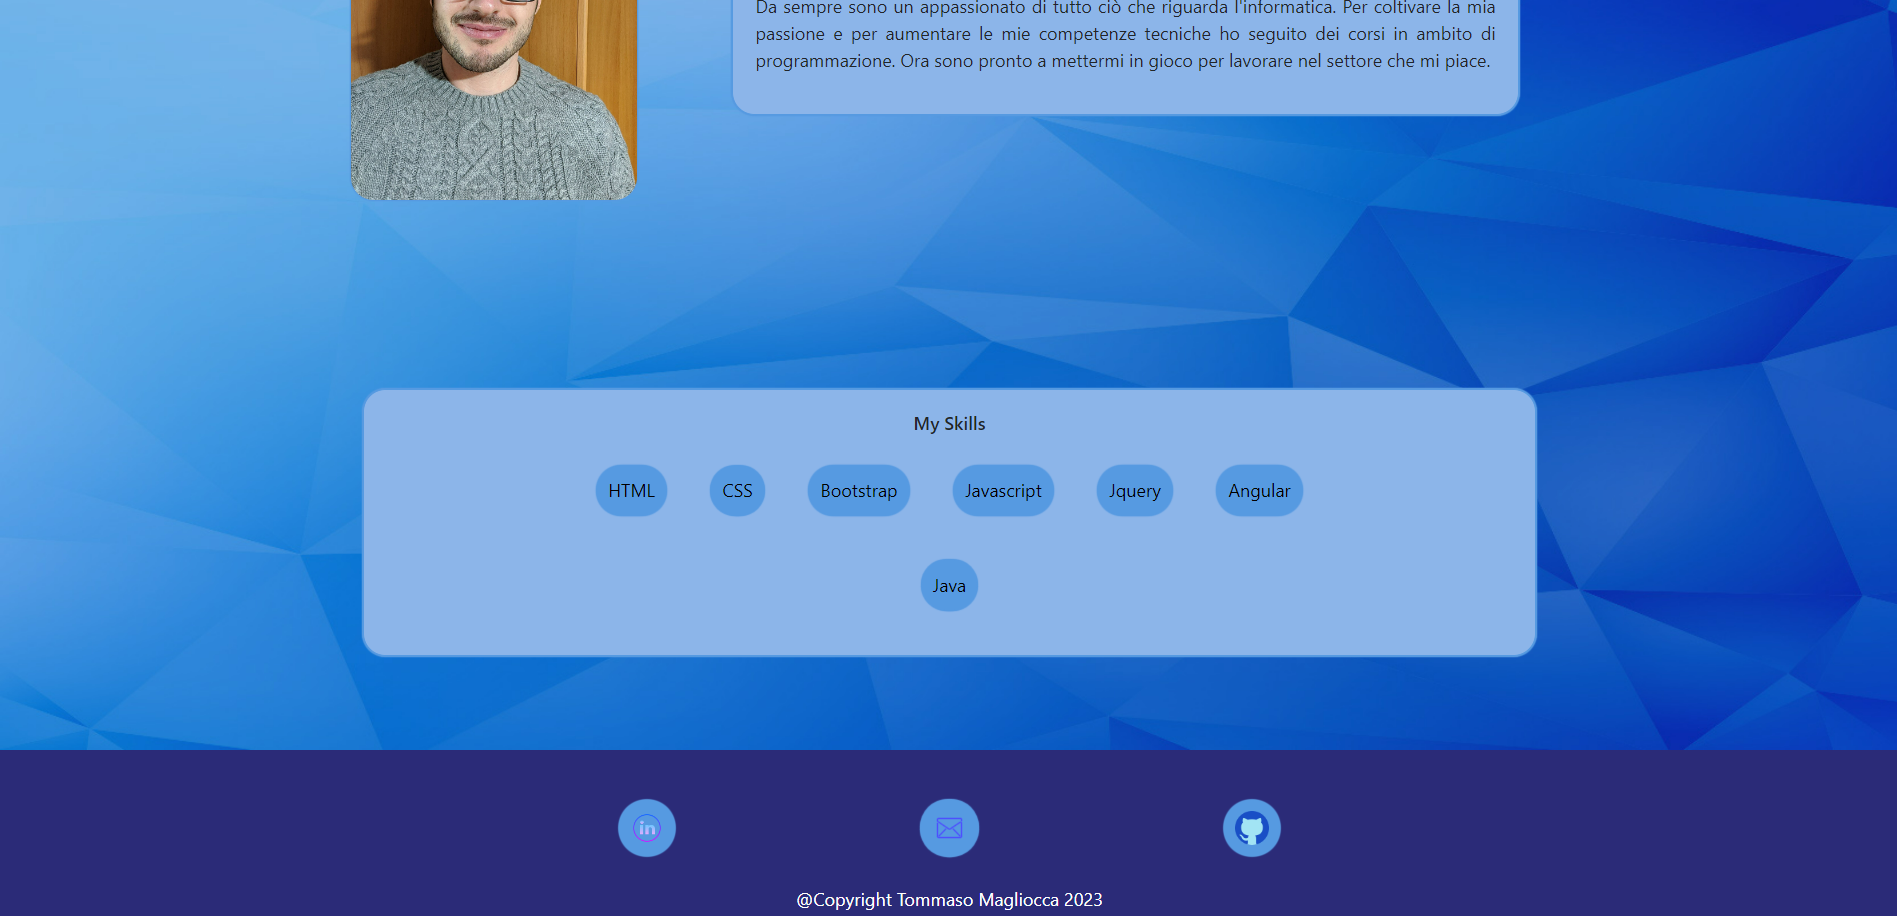
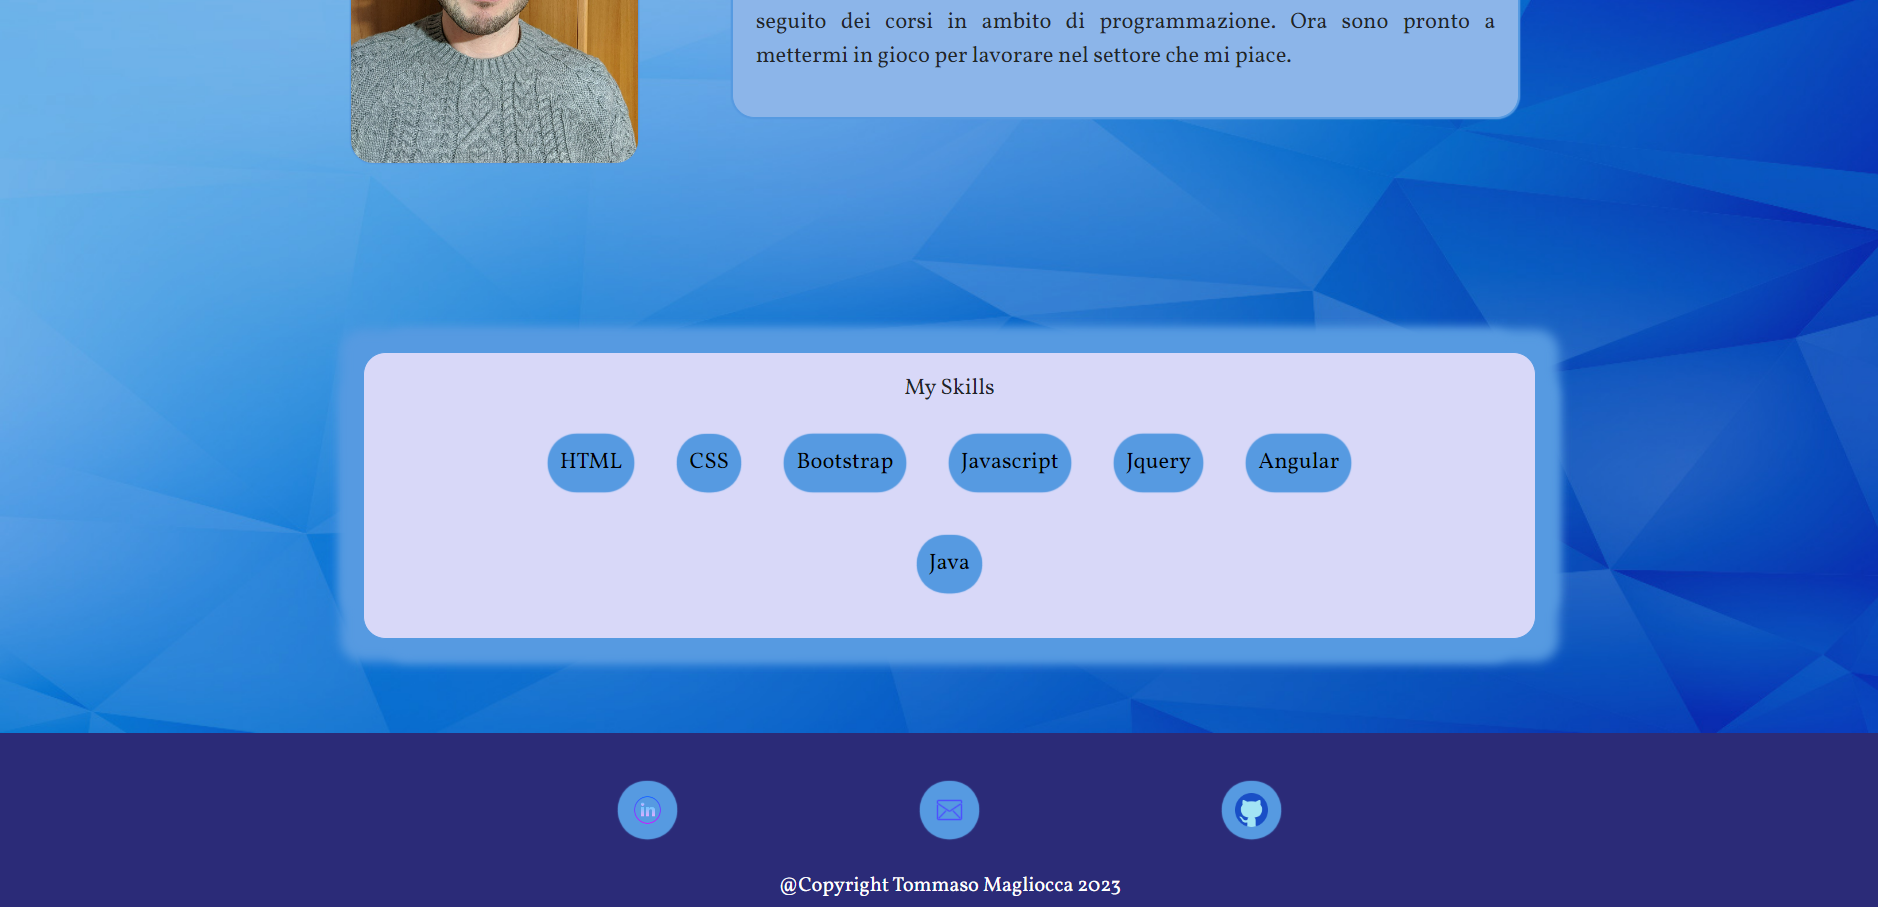
Aggiornamento font
Cambiato il font generale e aggiornato le foto del carosello pagina progetti.

diff --git a/src/app/pages/progetti/progetti.component.html b/src/app/pages/progetti/progetti.component.html
@@ -2,13 +2,13 @@
 <div class="row" id="container">
   <div class="col-1 col-xs-1 col-md-1"></div>
   <div class="col-10 col-xs-10 col-md-10" id="oggetto">
-    <h3>Progetti effettuati da Junior Developer</h3>
+    <h2>Progetti effettuati da Junior Developer</h2>
     <hr/>
-      <p>Web-App piattaforma Shop-Online <br>
-        …Work-In-Progress…<br></p>
+      <h6>Web-App piattaforma Shop-Online <br>
+        …Work-In-Progress…<br></h6>
         <hr/>
-        <h5>Portfolio progetti</h5>
-        <p>Questo Portfolio è stato realizzato utilizzando linguaggio HTML, CSS, Javascript, Jquery e il framework Angular.</p>
+        <h4>Portfolio progetti</h4>
+        <h6>Questo Portfolio è stato realizzato utilizzando linguaggio HTML, CSS, Javascript, Jquery e il framework Angular.</h6>
 
         <div id="carouselExampleIndicators" class="carousel slide" data-bs-ride="carousel">
           <div class="carousel-indicators">
@@ -29,22 +29,22 @@
               <img src="../../../assets/img/carosello/2.png" class="d-block w-100" alt="...">
             </div>
             <div class="carousel-item">
-              <img src="../../../assets/img/carosello/7.png" class="d-block w-100" alt="...">
-            </div>
-            <div class="carousel-item">
               <img src="../../../assets/img/carosello/3.png" class="d-block w-100" alt="...">
             </div>
             <div class="carousel-item">
               <img src="../../../assets/img/carosello/4.png" class="d-block w-100" alt="...">
             </div>
             <div class="carousel-item">
-              <img src="../../../assets/img/carosello/8.png" class="d-block w-100" alt="...">
-            </div>
-            <div class="carousel-item">
               <img src="../../../assets/img/carosello/5.png" class="d-block w-100" alt="...">
             </div>
             <div class="carousel-item">
               <img src="../../../assets/img/carosello/6.png" class="d-block w-100" alt="...">
+            </div>
+            <div class="carousel-item">
+              <img src="../../../assets/img/carosello/7.png" class="d-block w-100" alt="...">
+            </div>
+            <div class="carousel-item">
+              <img src="../../../assets/img/carosello/8.png" class="d-block w-100" alt="...">
             </div>
           </div>
           <button class="carousel-control-prev" type="button" data-bs-target="#carouselExampleIndicators" data-bs-slide="prev">
@@ -59,12 +59,13 @@
 
 
        <hr/>
-       <h5>Web-App Lista</h5>
-        <p>
-        Dove poter aggiungere i film da vedere con la relativa data e durata del film
+       <h4>Web-App Lista</h4>
+        <h6>
+        Dove poter aggiungere i film da vedere con la relativa data e durata del film.<br/>
+        Link:
         <a href="https://glistening-figolla-16da4b.netlify.app/">https://glistening-figolla-16da4b.netlify.app/</a>
         <br/>
-        Schermate:</p><br/>
+        Schermate:</h6><br/>
 
         <button class="btnImg" id="btnImg1" data-bs-toggle="modal" data-bs-target="#btnImage1"><img src="../../../assets/img/webapp-lista/schermata lista film 1.png" alt="Schermata1 lista" id="foto1Lista"></button>
         <button class="btnImg" id="btnImg2" data-bs-toggle="modal" data-bs-target="#btnImage2"><img src="../../../assets/img/webapp-lista/schermata lista film 2.png" alt="Schermata2 lista" id="foto2Lista"></button>

diff --git a/src/app/pages/home/home.component.html b/src/app/pages/home/home.component.html
@@ -3,8 +3,8 @@
     <div class="col-1"></div>
     <img class="col-12 col-xs-12 col-md-5" src="../../../assets/img/webapp-lista/foto cv.jpg" alt="foto profilo" id="fotoProfilo">
     <div class="col-12 col-xs-12 col-md-5" id="contenitoreTesto">
-    <h5 class="titolo">{{ titolo }}</h5>
-    <h6 class="titolo">{{ ruolo }}</h6>
+    <h5 class="titolo"><strong>{{ titolo }}</strong></h5>
+    <h6 class="titolo"><strong>{{ ruolo }}</strong></h6>
     <p id="paragrafo">{{ paragrafo }}</p>
     </div>
     <div class="col-1"></div>
@@ -19,7 +19,7 @@
       <button data-bs-toggle="modal" data-bs-target="#javascript">Javascript</button>
       <button data-bs-toggle="modal" data-bs-target="#jquery">Jquery</button>
       <button data-bs-toggle="modal" data-bs-target="#angular">Angular</button> <br/>
-      
+
       <button data-bs-toggle="modal" data-bs-target="#java">Java</button>
     </div>
       <!--Modale HTML-->

diff --git a/src/index.html b/src/index.html
@@ -9,6 +9,7 @@
   <link href="https://cdn.jsdelivr.net/npm/bootstrap@5.3.0-alpha1/dist/css/bootstrap.min.css" rel="stylesheet" integrity="sha384-GLhlTQ8iRABdZLl6O3oVMWSktQOp6b7In1Zl3/Jr59b6EGGoI1aFkw7cmDA6j6gD" crossorigin="anonymous">
   <script src="https://cdn.jsdelivr.net/npm/bootstrap@5.3.0-alpha1/dist/js/bootstrap.bundle.min.js" integrity="sha384-w76AqPfDkMBDXo30jS1Sgez6pr3x5MlQ1ZAGC+nuZB+EYdgRZgiwxhTBTkF7CXvN" crossorigin="anonymous"></script>
   <script src="https://ajax.googleapis.com/ajax/libs/jquery/3.6.0/jquery.min.js"></script>
+
 </head>
 <body>
   <app-root></app-root>

diff --git a/src/app/app.component.css b/src/app/app.component.css
@@ -1,7 +1,17 @@
+/* @import url('https://fonts.googleapis.com/css2?family=PT+Serif&display=swap');
+ */@import url('https://fonts.googleapis.com/css2?family=Vollkorn&display=swap');
 
 *{
   margin: 0;
   padding: 0;
   box-sizing: border-box;
-  
+
+/*   font-family: 'PT Serif', serif;
+  font-size: 20px; */
+
+  font-family: 'Vollkorn', serif;
+
+
 }
+
+

diff --git a/src/styles.css b/src/styles.css
@@ -1,2 +1,8 @@
 /* You can add global styles to this file, and also import other style files */
-@import "~bootstrap/dist/css/bootstrap.css"
+@import "~bootstrap/dist/css/bootstrap.css";
+@import url('https://fonts.googleapis.com/css2?family=Vollkorn&display=swap');
+
+*{
+  font-family: 'Vollkorn', serif;
+  font-size: 18px;
+}

diff --git a/src/app/pages/contatti/contatti.component.css b/src/app/pages/contatti/contatti.component.css
@@ -29,7 +29,7 @@ transition: box-shadow 1s;
   transition: box-shadow 1s;
 }
 #contenitoreTesto{
-  margin-top: 8%;
+  margin-top: 7%;
   background-color:rgb(140,181,233);
   border: 1px rgb(86,154,225) solid;
   border-radius: 20px;

diff --git a/src/app/pages/home/home.component.css b/src/app/pages/home/home.component.css
@@ -28,7 +28,7 @@
   transition: box-shadow 1s;
 }
 #contenitoreTesto{
-  margin-top: 9.5%;
+  margin-top: 8.2%;
   background-color:rgb(140,181,233);
   border: 1px rgb(86,154,225) solid;
   border-radius: 20px;
